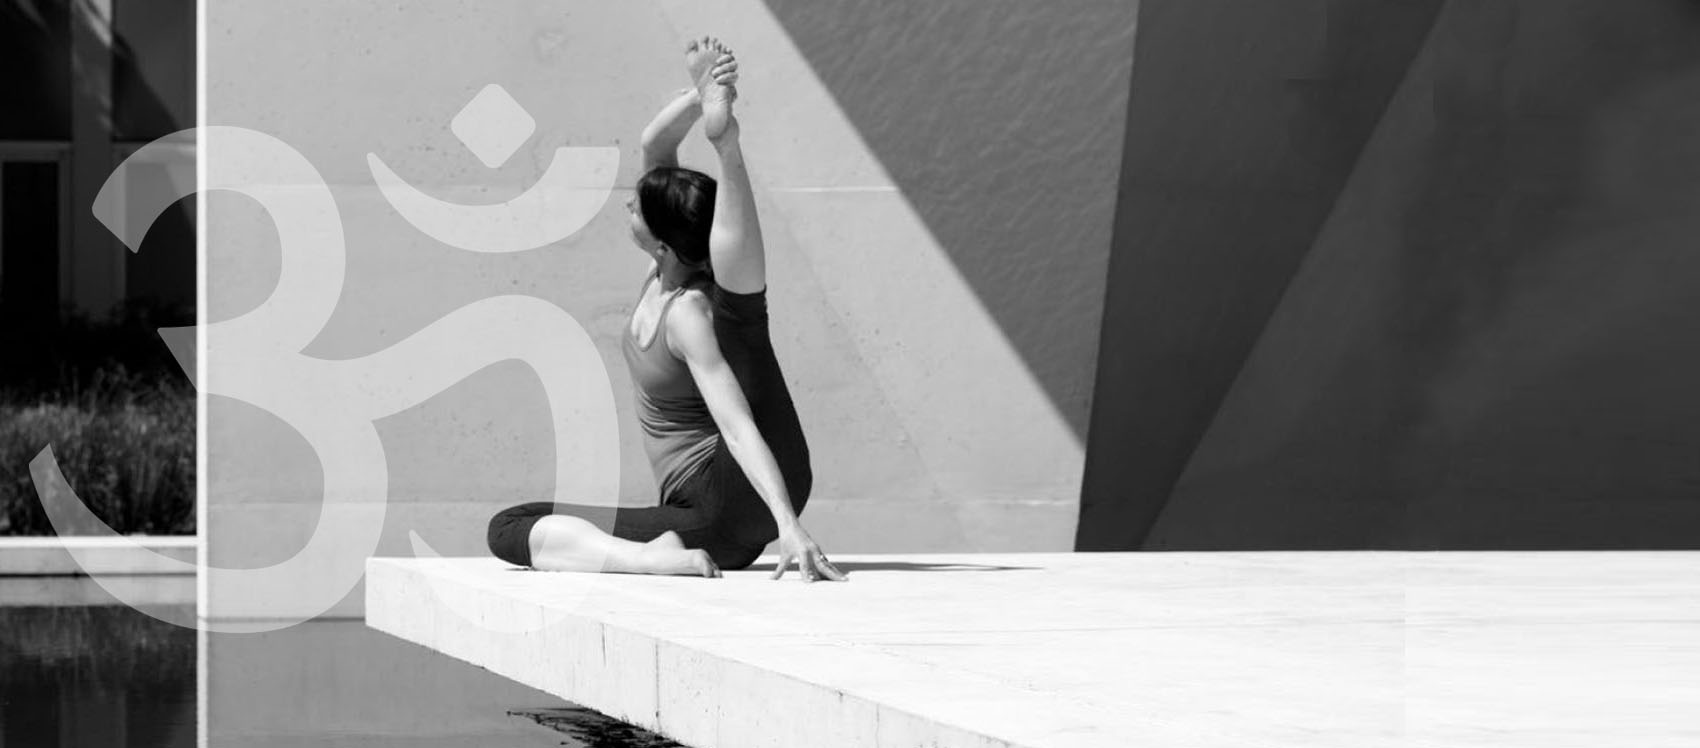
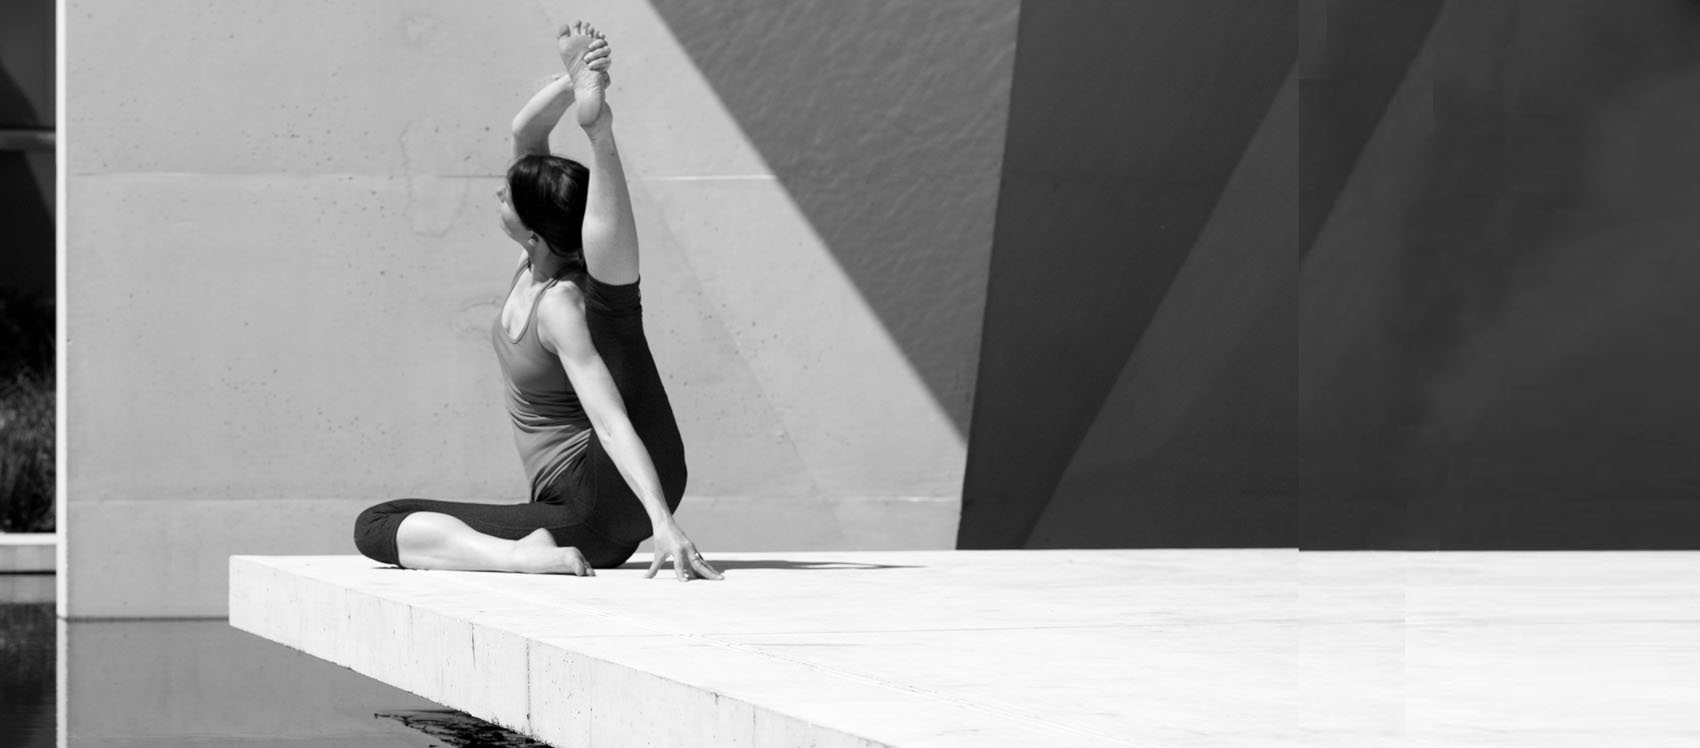
19.03 V5

diff --git a/index.html b/index.html
@@ -464,47 +464,66 @@ font-size: 0,875rem;
         <div class="container stuudio">
             <div class="row mt-3 mb-3 row justify-content-between">
 
-                <div class="col-md-6" style="background-color: antiquewhite;">
-                    <img src="img/meist.png" class="img-responsive" alt="Koos">
-                </div>
-                <div class="col-md-5" style="background-color: antiquewhite;">
+               
+            <div class="row justify-content-center">
+                
+                <div class="col-md-6">
                     <p>
-                    <h2> Tee joogat<br>ja ole õnnelik!</h2>
-                    </p>
-                  <p>  Infra Jooga on ainulaadne joogastuudio Eestis, kus jooga iidsed traditsioonid on toodud
-                    tänapäeva, et igaüks saaks osa jooga suurepärasest mõjust. Oleme ühendanud igivana süsteemi ja
-                    filosoofia uuendusliku infrapunasoojusega viies tunde läbi ruumis, mille temperatuur on
-                    keskmisest kõrgem, +25 kuni +32 kraadi. </p> 
+                        <h2> Tee joogat<br>ja ole õnnelik!</h2>
+                        </p>
+                      <p>  Infra Jooga on ainulaadne joogastuudio Eestis, kus jooga iidsed traditsioonid on toodud
+                        tänapäeva, et igaüks saaks osa jooga suurepärasest mõjust. Oleme ühendanud igivana süsteemi ja
+                        filosoofia uuendusliku infrapunasoojusega viies tunde läbi ruumis, mille temperatuur on
+                        keskmisest kõrgem, +25 kuni +32 kraadi. </p> 
+                        
                     
+                </div>
+                <div class="col-md-6">
+                    <img src="img/koos.jpg" class="img-responsive" alt="Koos">
                 </div>
             </div>
-            <!--  <div class="row">
-                <div class="col-md-6 order-md-2 px-10 infrapuna-block">
-                    <img src="saal.png" class="img-fluid" alt="Koos">
-                </div>
-                <div class="col-md-6 order-md-1 px-10">
+            <div class="row justify-content-end">
+                <div class="col-md-8 mt-3">
                     <p>
                         <h2> tervisele ohutu</h2>
-                        </p>
-                    
-                        
+                        </p>  
                     <p> 
                     Infrapunasoojus soojendab otseselt lihaseid ja liigeseid, muutes nad elastseks ja
                     painduvaks ning andes nii meile suurema liikumisulatuse joogaasendis. Saame keha rohkem
                     avada, teha sügavamaid painutusi ja pöördeid, mis tavasoojusega ruumis jääksid kindlasti
-                    väiksemaks. Infrapunasoojus suurendab ka higistamist, mis soojas ruumis joogat harrastades on
-                    tavapärane. Infrapuna loob nahas süvasoojuse ning seeläbi on ka higistamisel tekkiv higi
-                    hulk suurem. Higistamisprotsess on keha loomulik viis vabanemiseks mürkainetest ja
+                    väiksemaks. Infrapunasoojus suurendab ka higistamist, mis on keha loomulik viis vabanemiseks mürkainetest ja
                     toksiinidest ning tänu infrapunasoojusele on see veelgi tõhusam.
 
                     </p>
                 </div>
-
-            </div> -->
+            </div>
+            </div>
         </div>
     </div>
     <div class="container-fluid">
-        <div class="row">
+        <div class="container banner">
+            <div class="row">
+
+                <div class="col-5 px-10 mt-3">
+
+                    <p>
+                   <h3> Esimene samm on kõige olulisem!</h3></p>
+                    <p> Oled oodatud meie stuudiosse, kui alles alustad joogaga tutvumist ning ka siis kui oled juba
+                        joogaga tutvust teinud ja soovid jätkata oma teekonda joogamaailmas.
+
+                        Tunnid sobivad nii algajatele kui ka edasijõudnutele .
+                    </p>
+                </div>
+                <div class="col-7  px-10">
+                    <img src="img/animation.png" class="img-fluid" alt="Animation">
+                </div>
+                <button style="height:52px;width:138px" class="tule-tundi" role="button">Tule tundi</button>
+            </div>
+
+        </div>
+    </div>
+    <div class="container-fluid">
+        <div class="row mt-5">
             <div class="col-1">
                 <button class="btn section-title tunnid">Tundide kirjeldus</button>
             </div>
@@ -626,28 +645,7 @@ font-size: 0,875rem;
             </div>
         </div>
     </div>
-    <div class="container-fluid">
-        <div class="container banner">
-            <div class="row">
-
-                <div class="col-5 px-10 mt-5">
-
-                    <p>
-                   <h3> Esimene samm on kõige olulisem!</h3></p>
-                    <p> Oled oodatud meie stuudiosse, kui alles alustad joogaga tutvumist ning ka siis kui oled juba
-                        joogaga tutvust teinud ja soovid jätkata oma teekonda joogamaailmas.
-
-                        Tunnid sobivad nii algajatele kui ka edasijõudnutele .
-                    </p>
-                </div>
-                <div class="col-7  px-10">
-                    <img src="img/animation.png" class="img-fluid" alt="Animation">
-                </div>
-                <button style="height:52px;width:138px" class="tule-tundi" role="button">Tule tundi</button>
-            </div>
-
-        </div>
-    </div>
+    
     <div class="container-fluid">
         <div class="row mt-5">
             <div class="col-1">
